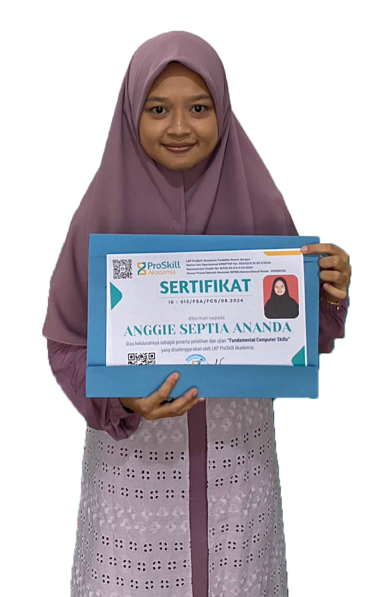
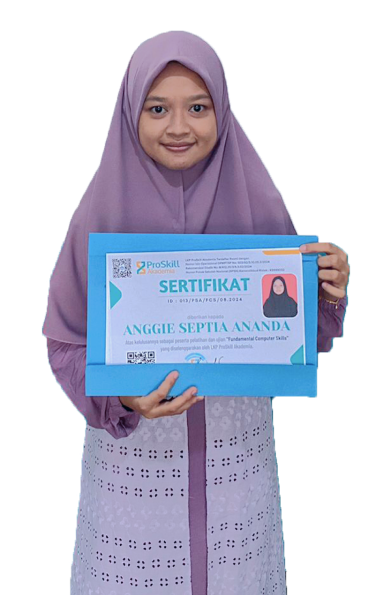
up

diff --git a/resources/views/home/index.blade.php b/resources/views/home/index.blade.php
@@ -40,7 +40,7 @@
                     </div>
                     <div class="col-xl-7 col-lg-6 col-md-8">
                         <div class="banner__images-two tg-svg">
-                            <img src="{{ asset('public/assets/img/banner/h2_banner_img.png') }}" alt="img" class="main-img"
+                            <img src="{{ asset('public/assets/img/banner/2.png') }}" alt="img" class="main-img"
                                 loading="lazy">
                             <div class="shape big-shape" data-aos="fade-up" data-aos-delay="600">
                                 <img src="{{ asset('public/assets/img/banner/h2_banner_shape01.svg') }}" alt="shape"
